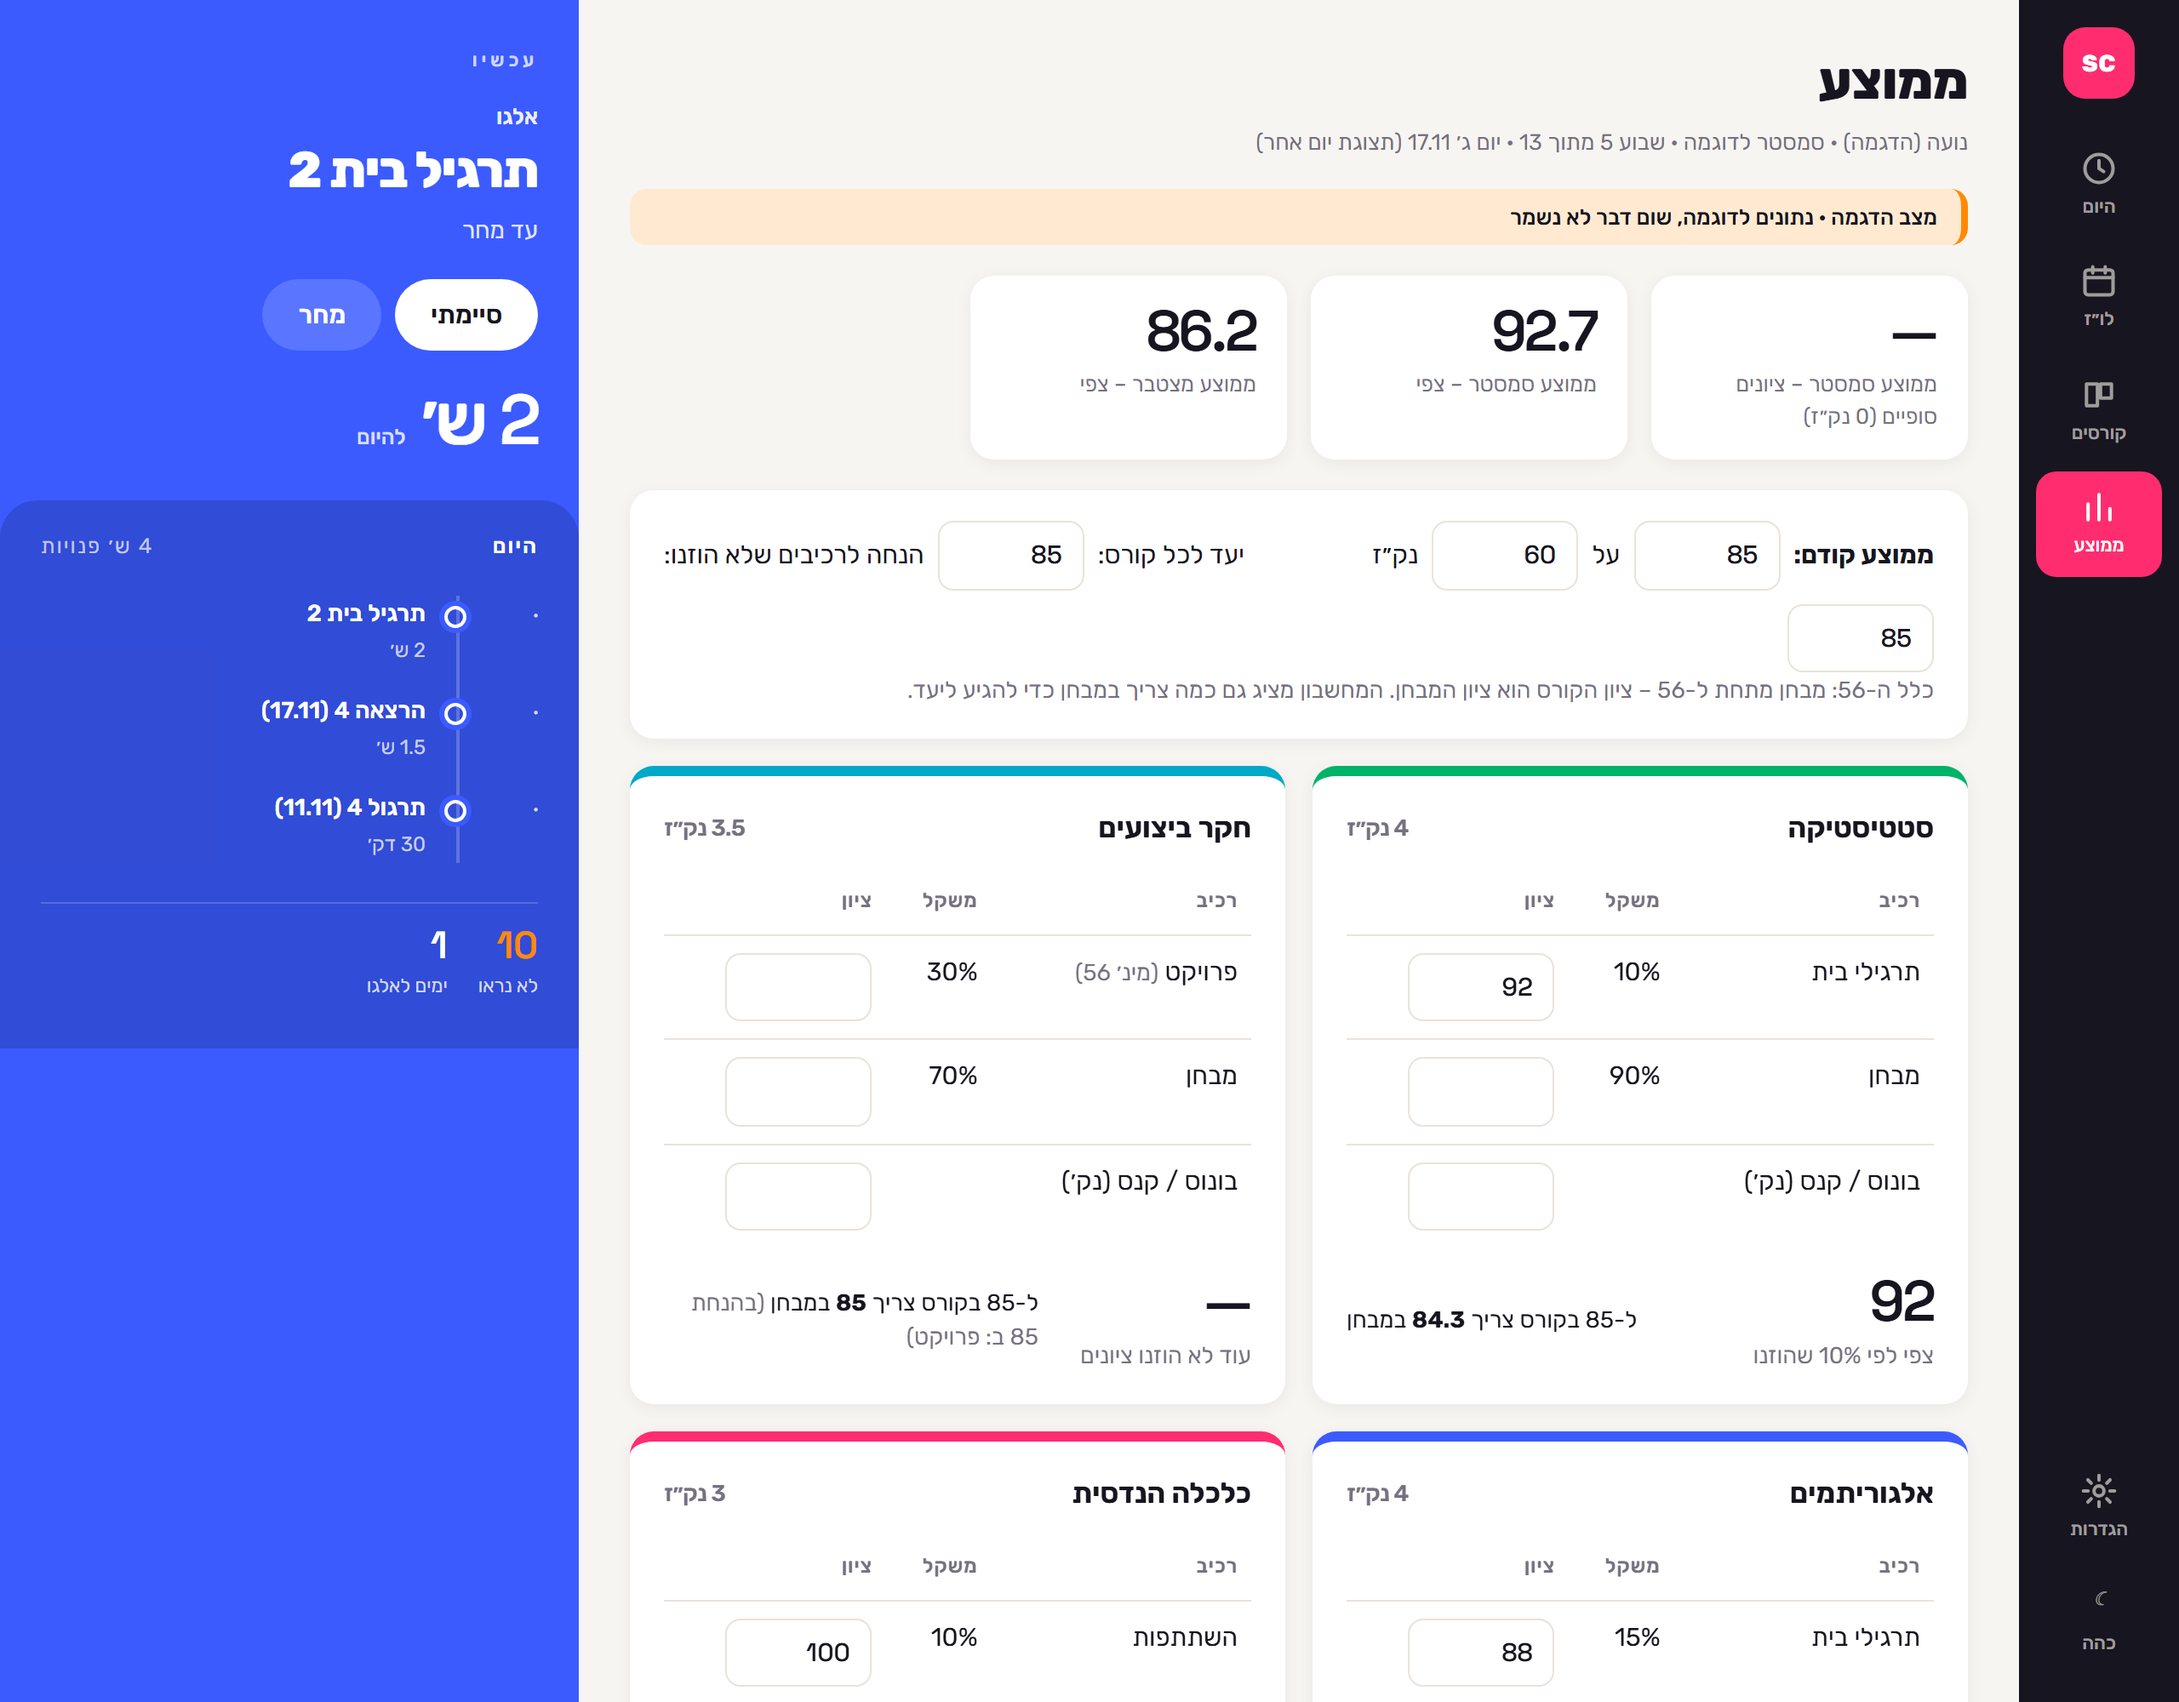
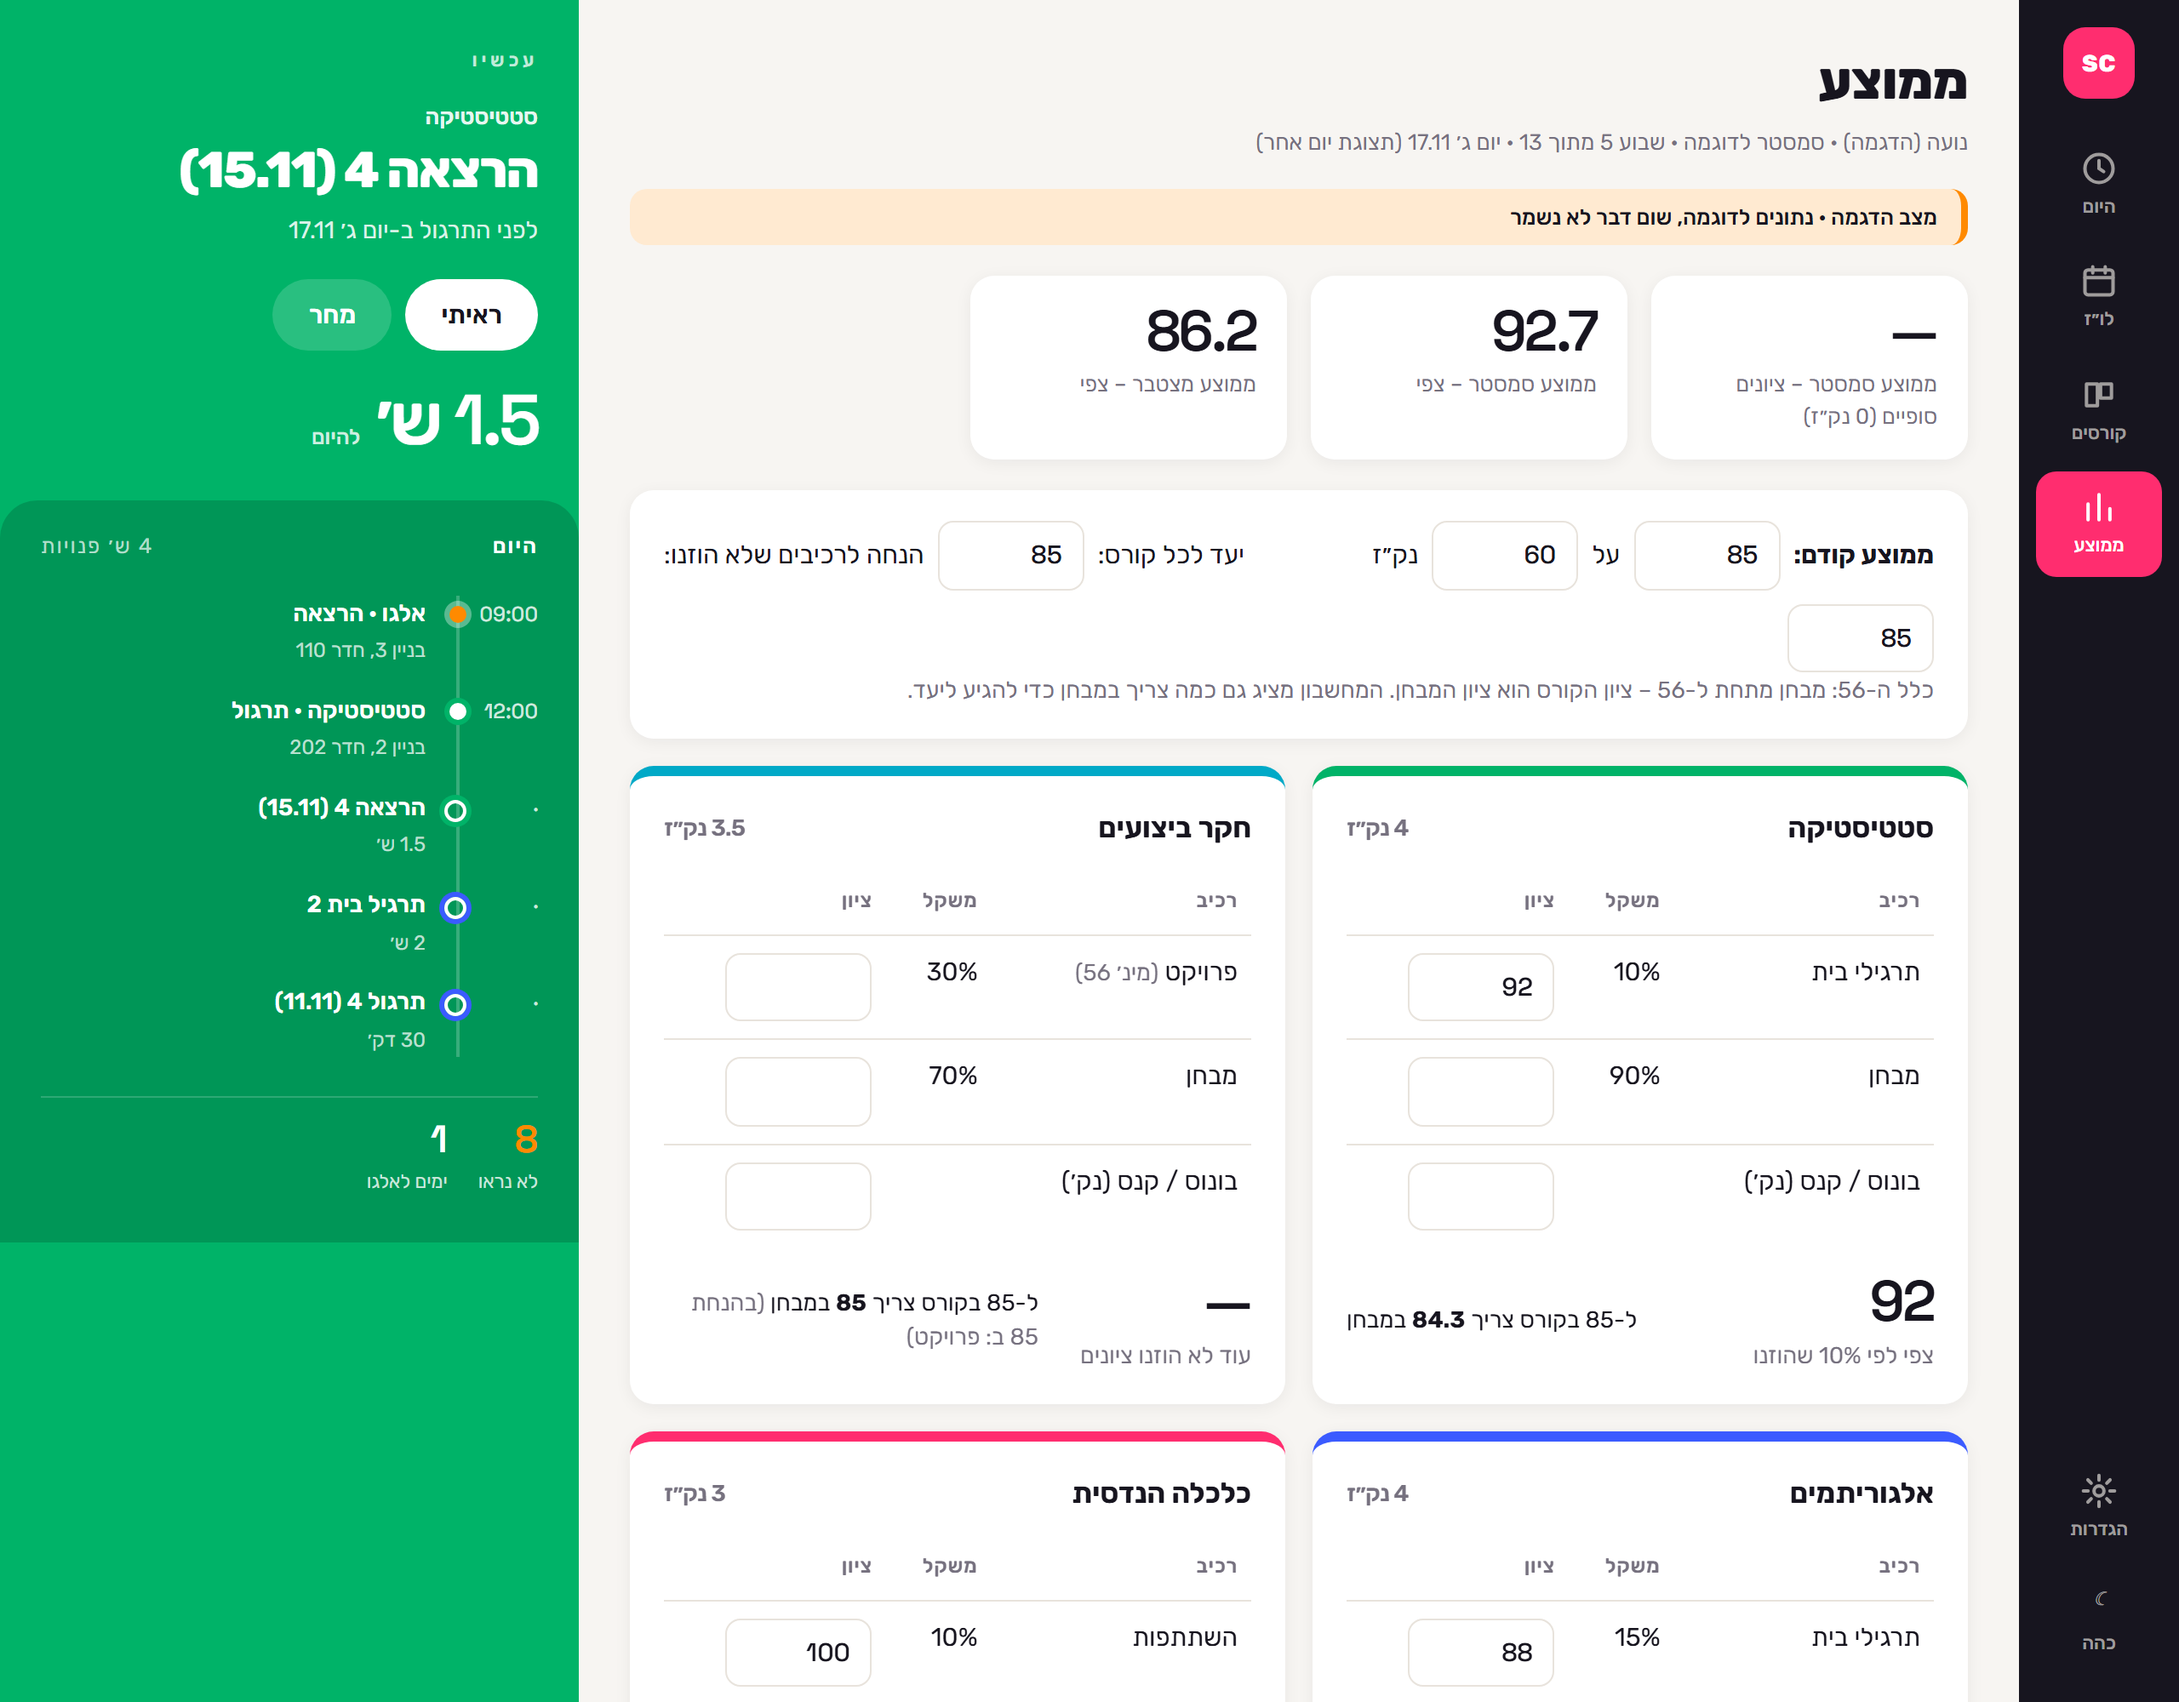
Fix the pinned clock and stop serving a stale app
Two bugs that hid each other.

?now= never matched: the regex had lost its escapes (/^d{1,2}:d{2}$/), so the
app silently fell back to the wall clock. Every screenshot was therefore taken
at whatever time the run happened, not at the 09:40 the tool asked for — the
"reproducible" claim in the README was not true until now. Regenerated: the
focus panel is green because the current task belongs to the statistics
course, and the 09:00 lecture is marked live.

The service worker was cache-first for code, so after an update the app ran
yesterday's JavaScript until a second reload. For an app whose job is to tell
you the time and what is due, that is a correctness bug, not a performance
trade-off. Code and semester data now go to the network first with a 2.5s
timeout and fall back to the cache, which keeps the app fully usable offline;
images stay cache-first. It also checks for a new version on every load.

Changed region(s): [[0.0, 0.0, 0.2812, 1.0]]

diff --git a/sw.js b/sw.js
@@ -1,11 +1,11 @@
 /*
  * Service worker – makes the app installable and usable offline.
  *
- * App shell (HTML, CSS, JS, icons, data file): cache first, refreshed in the background.
- * Everything else (Supabase, fonts): straight to the network, with a cached copy as fallback.
- * Supabase requests are never cached – stale academic data would be worse than none.
+ * Code and semester data: the network first (2.5s), falling back to the cache, so an update
+ * is never a reload behind. Images: cache first, since they do not change under the same name.
+ * Supabase requests are never cached – a stale deadline is worse than an offline message.
  */
-const VERSION = "v5";
+const VERSION = "v6";
 const SHELL = "shell-" + VERSION;
 const RUNTIME = "runtime-" + VERSION;
 
@@ -50,13 +50,21 @@ self.addEventListener("fetch", (e) => {
   if (url.hostname.endsWith(".supabase.co")) return;
 
   if (isShell(url)) {
+    // Code and data: the network first, with a short timeout, falling back to the cache.
+    // Cache-first was serving yesterday's app after an update – and an app that shows the
+    // wrong time or an old deadline is worse than one that waits a second for the network.
+    // Images never change under the same name, so they stay cache-first.
+    const isAsset = /\.(png|svg|webmanifest)$/.test(url.pathname);
     e.respondWith((async () => {
       const cached = await caches.match(request, { ignoreSearch: true });
+      if (isAsset && cached) return cached;
       const fresh = fetch(request).then((res) => {
         if (res.ok) caches.open(SHELL).then((c) => c.put(request, res.clone()));
         return res;
       }).catch(() => null);
-      return cached || (await fresh) || new Response("offline", { status: 503 });
+      const timeout = new Promise((r) => setTimeout(() => r(null), 2500));
+      const res = cached ? await Promise.race([fresh, timeout]) : await fresh;
+      return res || cached || new Response("offline", { status: 503 });
     })());
     return;
   }

diff --git a/js/app.js b/js/app.js
@@ -41,7 +41,7 @@
   const now = (() => {
     const real = new Date();
     const d = qp ? L.parseDate(qp) : real;
-    const [h, m] = nowQp && /^d{1,2}:d{2}$/.test(nowQp) ? nowQp.split(":").map(Number) : [real.getHours(), real.getMinutes()];
+    const [h, m] = nowQp && /^\d{1,2}:\d{2}$/.test(nowQp) ? nowQp.split(":").map(Number) : [real.getHours(), real.getMinutes()];
     d.setHours(h, m, 0, 0);
     return d;
   })();

diff --git a/js/pwa.js b/js/pwa.js
@@ -54,6 +54,8 @@
       });
     };
     if (reg.waiting && navigator.serviceWorker.controller) { PWA.waiting = reg.waiting; set("update"); }
+    // look for a new version on every load, not only once an hour
+    reg.update().catch(() => {});
     track(reg.installing);
     reg.addEventListener("updatefound", () => track(reg.installing));
     setInterval(() => reg.update().catch(() => {}), 60 * 60 * 1000);
